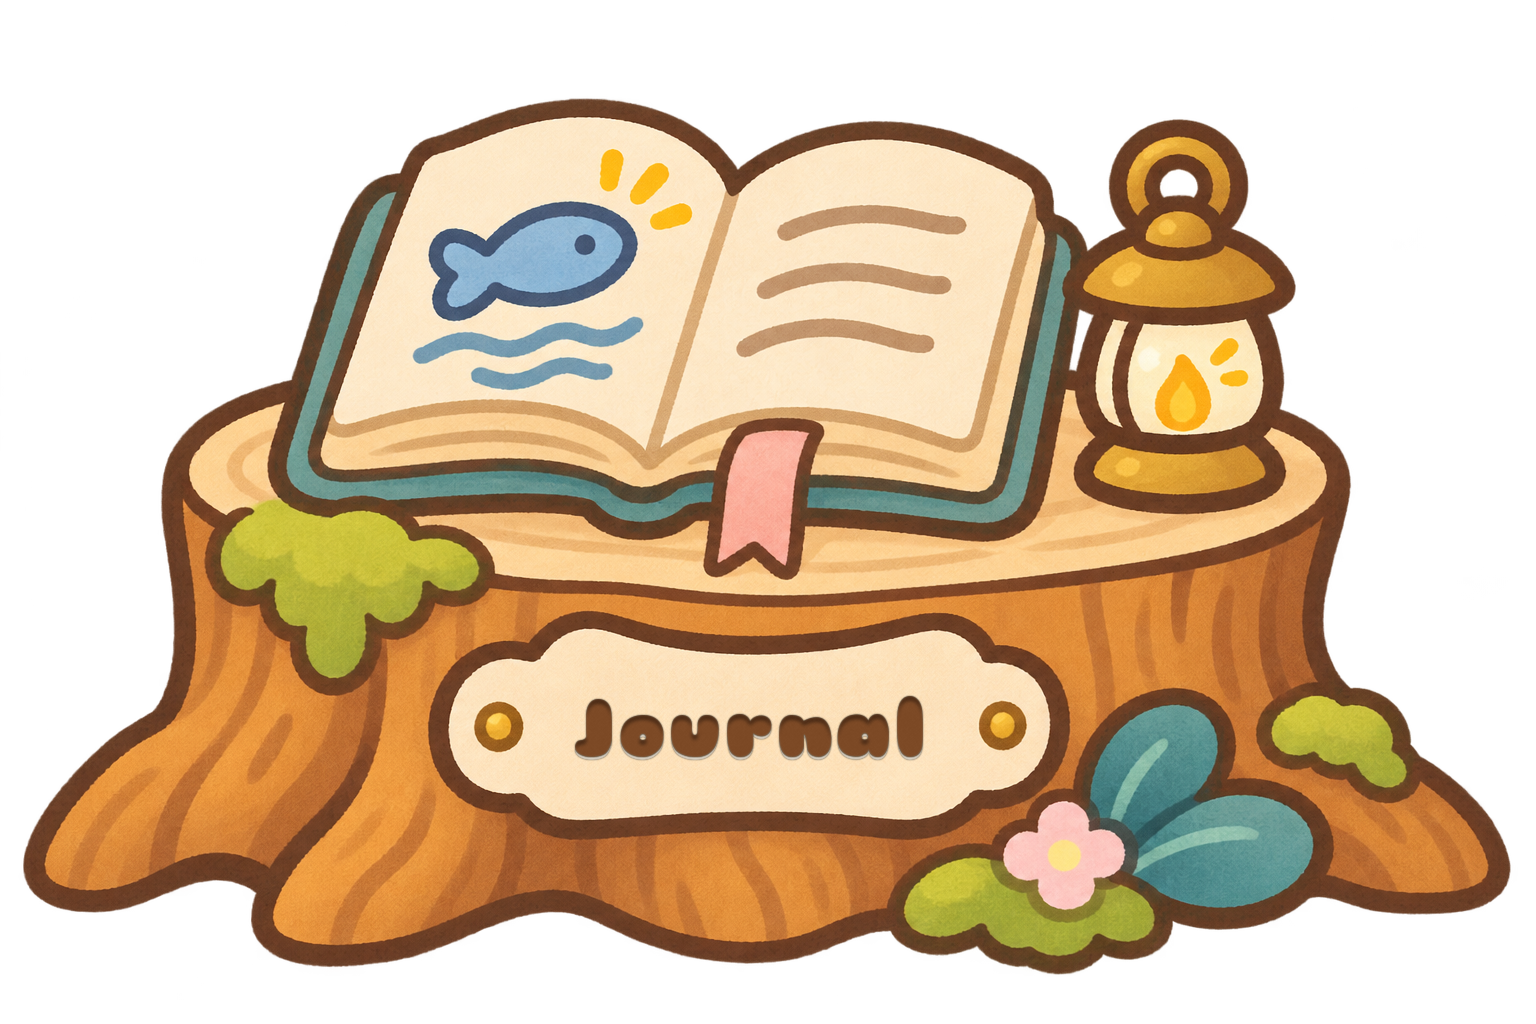
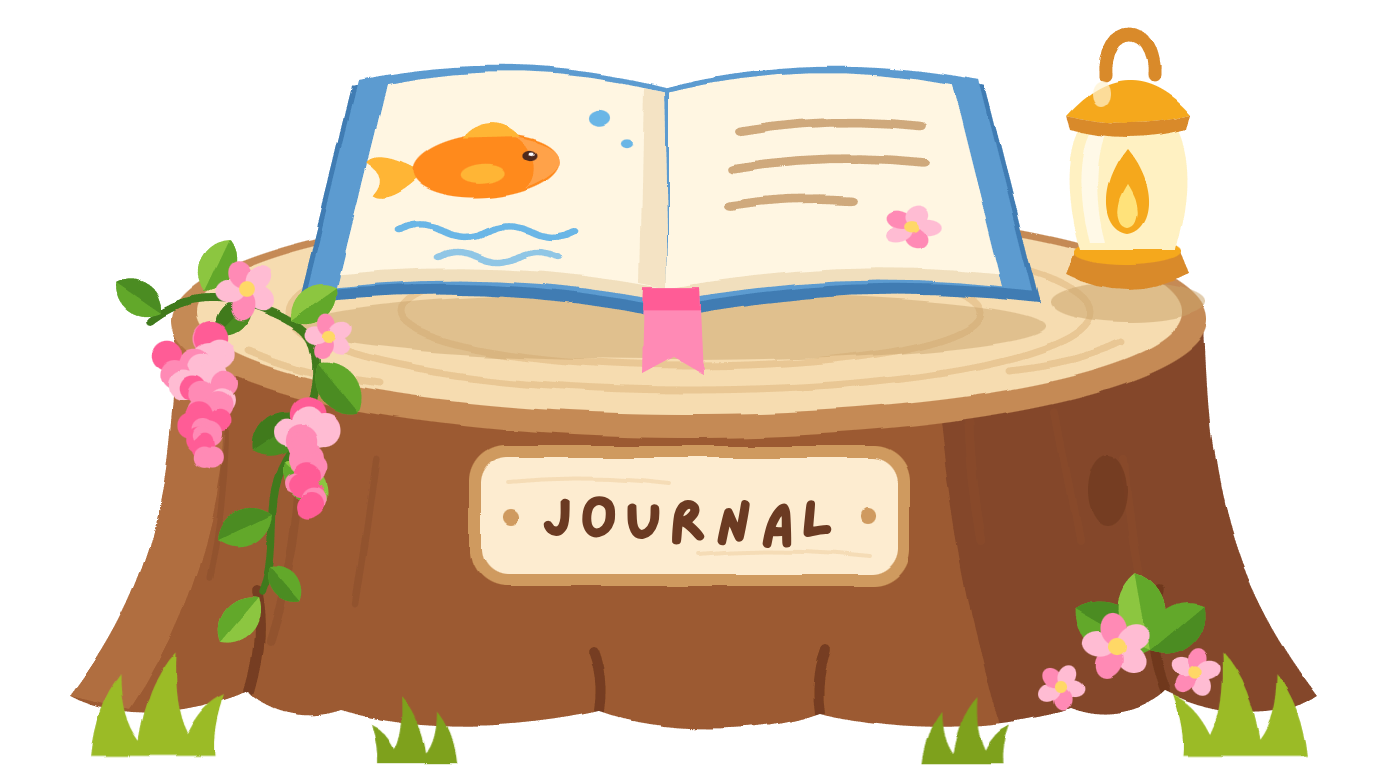
Repaint the pond's journal stump to match the other props
Redraw the stump, open journal and lantern in the flat style of the gate
and signs, and give the lantern a flickering flame.

diff --git a/apps/web/src/features/rooms/pond/ambience.ts b/apps/web/src/features/rooms/pond/ambience.ts
@@ -628,6 +628,16 @@ export function createPondAmbience(group: THREE.Group, art: PondArt, ground: Pon
     return { mesh, x: 0, y: 0, land: 0, phase: random() * 6, wait: random() * 6, size: 0.06 + random() * 0.04, drift: 0 }
   })
 
+  // The journal's lantern burns with a small unsteady flame.
+  const journal = POND_LANDMARKS.find((landmark) => landmark.kind === 'fishdex')!
+  const journalWidth = journal.width * scaleAt(journal.depth)
+  const lanternX = journal.x + (1128 / 1380 - 0.5) * journalWidth
+  const lanternY = groundY + liftAt(journal.depth) + (1 - 195 / 770) * (journalWidth / journal.aspect)
+  const lantern = sprite(glow, { additive: true, colour: '#ffc45e', opacity: 0.5 })
+  lantern.position.set(lanternX, lanternY, -0.19)
+  const flame = sprite(glow, { additive: true, colour: '#fff2b0', opacity: 0.7 })
+  flame.position.set(lanternX, lanternY, -0.189)
+
   // Butterflies wander between the flowers.
   const wing = keep(wingTexture())
   const flutter = [
@@ -788,6 +798,11 @@ export function createPondAmbience(group: THREE.Group, art: PondArt, ground: Pon
       twinkle.mesh.material.opacity = still ? 1 : 0.4 + 0.6 * pulse
     }
     doorGlow.material.opacity = 0.16 + 0.1 * Math.sin(t * 0.8)
+    const flicker = still ? 0.6 : 0.55 + 0.25 * Math.sin(t * 7.3) * Math.sin(t * 3.1 + 1) + 0.2 * Math.sin(t * 1.3)
+    lantern.scale.setScalar(journalWidth * (0.3 + 0.08 * flicker))
+    lantern.material.opacity = 0.3 + 0.3 * flicker
+    flame.scale.set(journalWidth * 0.07, journalWidth * (0.09 + 0.03 * flicker), 1)
+    flame.material.opacity = 0.45 + 0.4 * flicker
     for (const mote of gateMotes) {
       mote.t = (mote.t + mote.speed * step) % 1
       const at = gateAt(mote.px + Math.sin(clock * 0.9 + mote.phase) * 26, 1300 - mote.t * 760)

diff --git a/apps/web/src/features/rooms/pond/landmarks.ts b/apps/web/src/features/rooms/pond/landmarks.ts
@@ -67,9 +67,9 @@ export const POND_LANDMARKS: readonly PondLandmark[] = [
     kind: 'fishdex',
     x: 12.6,
     depth: 1,
-    width: 1.65 * 1536 / 1024,
+    width: 2.8,
     baseY: 0,
-    aspect: 1536 / 1024,
+    aspect: 1380 / 770,
     path: { foot: 11.45, end: 12.6, sway: -0.28, width: 0.95 },
     standX: 11.6,
     title: 'Fish journal',
